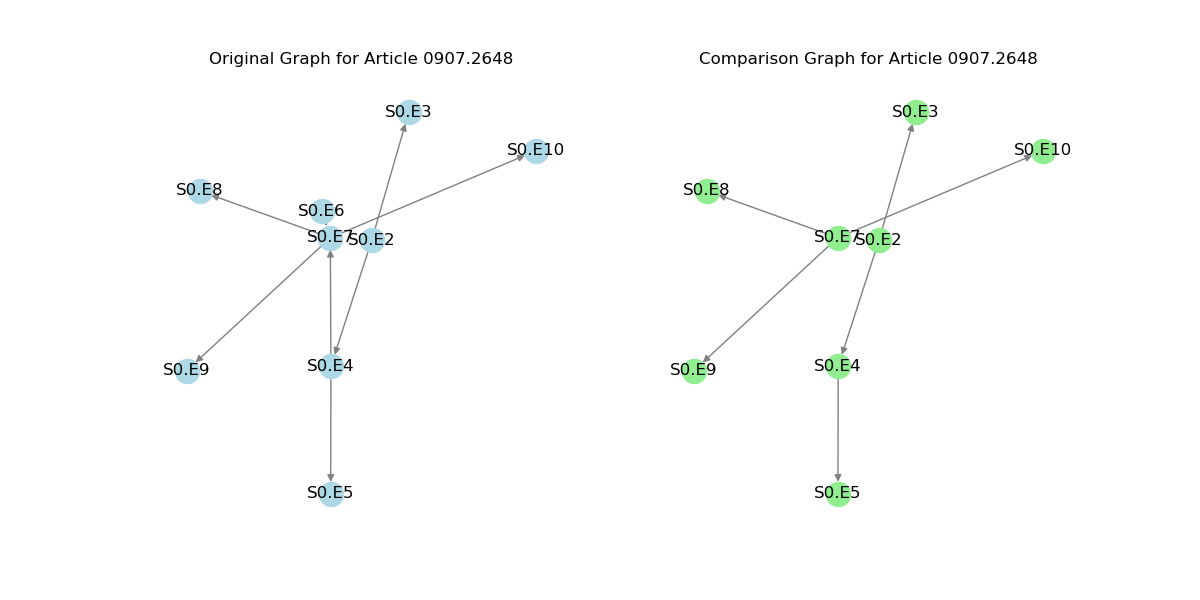
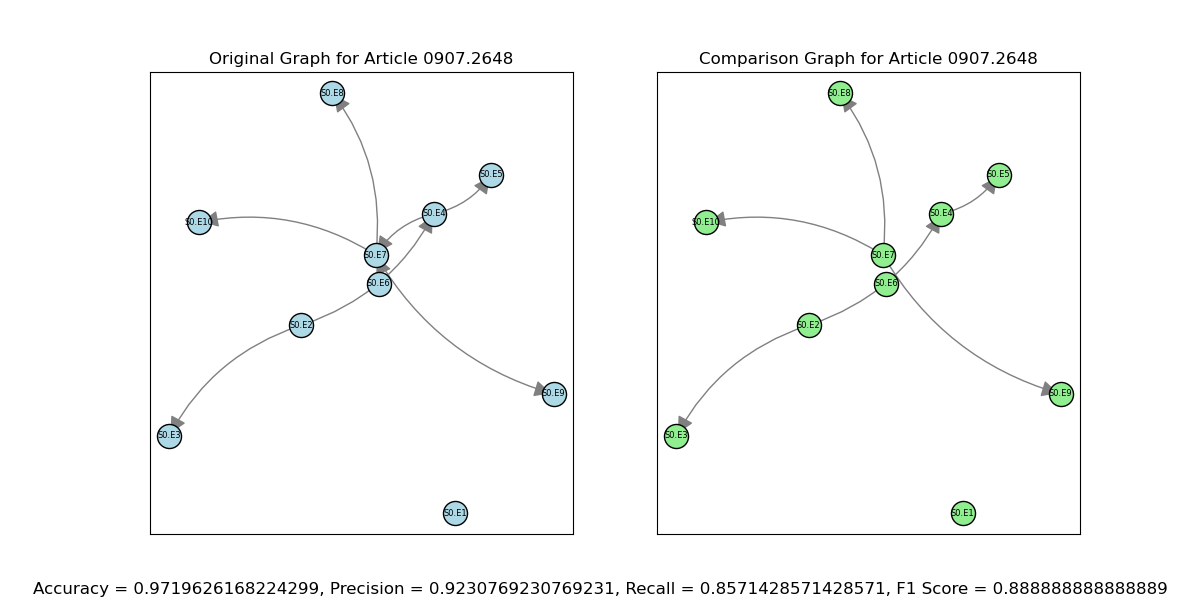
Finish graphing comparison

diff --git a/graph_compare.py b/graph_compare.py
@@ -1,40 +1,99 @@
+# Import modules
 import json
 import networkx as nx
 import matplotlib.pyplot as plt
 from pathlib import Path
 import article_parser
+from matplotlib.patches import FancyArrowPatch, Circle
 
-# Load JSON from outputs folder
+
+
+"""
+load_json(file_path)
+Input: file_path -- file path for file holding current JSON output
+Return: json.load(f)['Results'] -- Results section of output holding all required information
+Function: Load JSON of inputted file and return results of algorithm run
+"""
 def load_json(file_path):
+    # Load JSON from outputs folder
     with open(file_path, 'r') as f:
         return json.load(f)['Results']
 
+
+
+"""
+create_graph(adj_list)
+Input: adj_list -- adjacency list for current graph
+Return: graph -- networkx graph for inputted adjacency list
+Function: Construct networkx graph for inputted adjacency list
+"""
 def create_graph(adj_list):
-    graph = nx.DiGraph()  # Use DiGraph for directed graphs
+    # Use DiGraph for directed graphs
+    graph = nx.DiGraph()
+
+    # Add nodes from the adjacency list
+    for node in adj_list.keys():
+        graph.add_node(node)  # Ensure all nodes are added
+
+    # Add edges from the adjacency list
     for node, edges in adj_list.items():
         for edge in edges:
             if edge is not None:
                 graph.add_edge(node, edge)
     return graph
 
-def plot_and_save_graphs(graph1, graph2, article_id, output_dir):
+
+
+"""
+plot_and_save_graphs(graph1, graph2, article_id, output_dir, caption)
+Input: graph1 -- networkx graph for ground truth
+       graph2 -- networkx graph for comparison
+       article_id -- article id for current comparison
+       output_dir -- directory where to place output figures
+       caption -- correctness measures to add as caption to the figure
+Return: none
+Function: Plot the resulting graphs and output to the correct directory
+"""
+def plot_and_save_graphs(graph1, graph2, article_id, output_dir, caption):
+    # Base figure
     fig, axs = plt.subplots(1, 2, figsize=(12, 6))
 
-    min_edge_length = 100
+    # Plotting variables
+    min_edge_length=5.0
+    curvature=0.2
+    font_size=6
+
     # Generate a common layout based on graph1 (or a union of nodes from both graphs)
     all_nodes = set(graph1.nodes).union(set(graph2.nodes))
     common_layout = nx.spring_layout(graph1.subgraph(all_nodes), scale=min_edge_length * len(all_nodes))
 
+    # Helper function to draw edges for each graph
+    def draw_curved_edges(graph, pos, ax, curvature=0.2, node_size=5000):
+        for u, v in graph.edges():
+            # Define circular patches for each node to pad the arrow position
+            patchA = Circle(pos[u], radius=node_size, transform=ax.transData)
+            patchB = Circle(pos[v], radius=node_size, transform=ax.transData)
+            
+            # Create the arrow patch with padding and curvature
+            arrow = FancyArrowPatch(posA=pos[u], posB=pos[v], connectionstyle=f"arc3,rad={curvature}",
+                                    color="gray", arrowstyle="-|>", mutation_scale=25, lw=1,
+                                    patchA=patchA, patchB=patchB)
+            ax.add_patch(arrow)
+
     # Plot the first graph
-    # pos1 = nx.spring_layout(graph1)
-    # pos1 = nx.spring_layout(graph1, scale=min_edge_length * len(graph1.nodes))
-    nx.draw(graph1, pos=common_layout, ax=axs[0], with_labels=True, node_color="lightblue", edge_color="gray")
+    nx.draw_networkx_nodes(graph1, pos=common_layout, ax=axs[0], node_color="lightblue", edgecolors="black")
+    nx.draw_networkx_labels(graph1, pos=common_layout, ax=axs[0], font_size=font_size)
+    draw_curved_edges(graph1, common_layout, axs[0], curvature=curvature)
     axs[0].set_title(f"Original Graph for Article {article_id}")
 
     # Plot the second graph
-    # pos2 = nx.spring_layout(graph2, scale=min_edge_length * len(graph2.nodes))
-    nx.draw(graph2, pos=common_layout, ax=axs[1], with_labels=True, node_color="lightgreen", edge_color="gray")
+    nx.draw_networkx_nodes(graph2, pos=common_layout, ax=axs[1], node_color="lightgreen", edgecolors="black")
+    nx.draw_networkx_labels(graph2, pos=common_layout, ax=axs[1], font_size=font_size)
+    draw_curved_edges(graph2, common_layout, axs[1], curvature=curvature)
     axs[1].set_title(f"Comparison Graph for Article {article_id}")
+
+    # Add caption
+    fig.text(0.5, 0.01, caption, ha='center', fontsize=12, wrap=True)
 
     # Save the figure
     output_file = output_dir / f"article_{article_id}_comparison.png"
@@ -42,35 +101,58 @@ def plot_and_save_graphs(graph1, graph2, article_id, output_dir):
     plt.close(fig)
     print(f"Saved comparison for Article {article_id} to {output_file}")
 
-def compare(file2, output_dir):
+
+
+"""
+compare(compare_file, output_dir)
+Input: compare_file -- file path that holds JSON output to compare against
+       output_dir -- directory where to place output figures
+Return: none
+Function: Create side-by-side figures of ground truth graphs and algorithm output
+"""
+def compare(compare_file, output_dir):
+    # Output directory
     output_dir = Path(output_dir)
     output_dir.mkdir(parents=True, exist_ok=True)
 
+    # Load data from ground truth and comparison JSONs
     data_original = article_parser.get_manually_parsed_articles()
-    data_comparison = load_json(file2)
+    data_comparison = load_json(compare_file)
 
+    # For each article
     for cur_article_id in data_original:
+        # Get ground truth adjacency list
         cur_original_adj_list = data_original[cur_article_id]['Adjacency List']
         
         # Find matching article in the second file
-        cur_compare_article = data_comparison[f'Article ID: {cur_article_id}'] if data_comparison[f'Article ID: {cur_article_id}'] else None
+        cur_compare_article = data_comparison[f'Article ID: {cur_article_id}'] if f'Article ID: {cur_article_id}' in data_comparison else None
+        # If corresponding outputted adjacency list exists
         if cur_compare_article:
+            # Get outputted adjacency list
             cur_compare_adj_list = cur_compare_article['Adjacency List']
             
             # Create graphs for both adjacency lists
             original_graph = create_graph(cur_original_adj_list)
             compare_graph = create_graph(cur_compare_adj_list)
 
+            # Correctness metrics as caption for graph
+            caption = f"Accuracy = {cur_compare_article['Accuracy']}, Precision = {cur_compare_article['Precision']}, Recall = {cur_compare_article['Recall']}, F1 Score = {cur_compare_article['F1 Score']}"
+
             # Plot and save the graphs side by side
-            plot_and_save_graphs(original_graph, compare_graph, cur_article_id, output_dir)
+            plot_and_save_graphs(original_graph, compare_graph, cur_article_id, output_dir, caption)
         else:
             print(f"Article {cur_article_id} not found in both files.")
-        return
 
 
+
+"""
+Entry point for graph_compare.py
+Runs compare()
+"""
 if __name__ == '__main__':
     # Path to the JSON file being compare to
     comparison_file = "./outputs/Gemini/gemini_2024-09-17_10-48-52_UTC.json"
     # Output directory
     output_dir = "./outputs/Comparison_Graphs"
+    # Run compare
     compare(comparison_file, output_dir)

diff --git a/important_equation.py b/important_equation.py
@@ -17,6 +17,7 @@ import article_parser
 import results_output
 
 
+
 """
 get_most_important_equation_DFS(article)
 Input: article -- dictionary with following values:
@@ -315,9 +316,6 @@ def get_most_important_equation_BFS(article, ret_list):
         return important_nodes[-1]
 
 
-"""PLAYGROUND"""
-
-
 
 """
 get_algo_correctness_list(labeled_most_important_equations, algo_most_important_equations)
@@ -406,7 +404,6 @@ def run_important_algo(type):
 
     output_name = "important_equation_dfs" if type == "dfs" else "important_equation_bfs"
     results_output.save_important_equation_results(output_name, article_id_correctness, algo_most_important_equations, labeled_most_important_equations, algo_accuracy, algo_precision, algo_recall, algo_f1_score, len(algo_articles_used))
-
 
 
 
